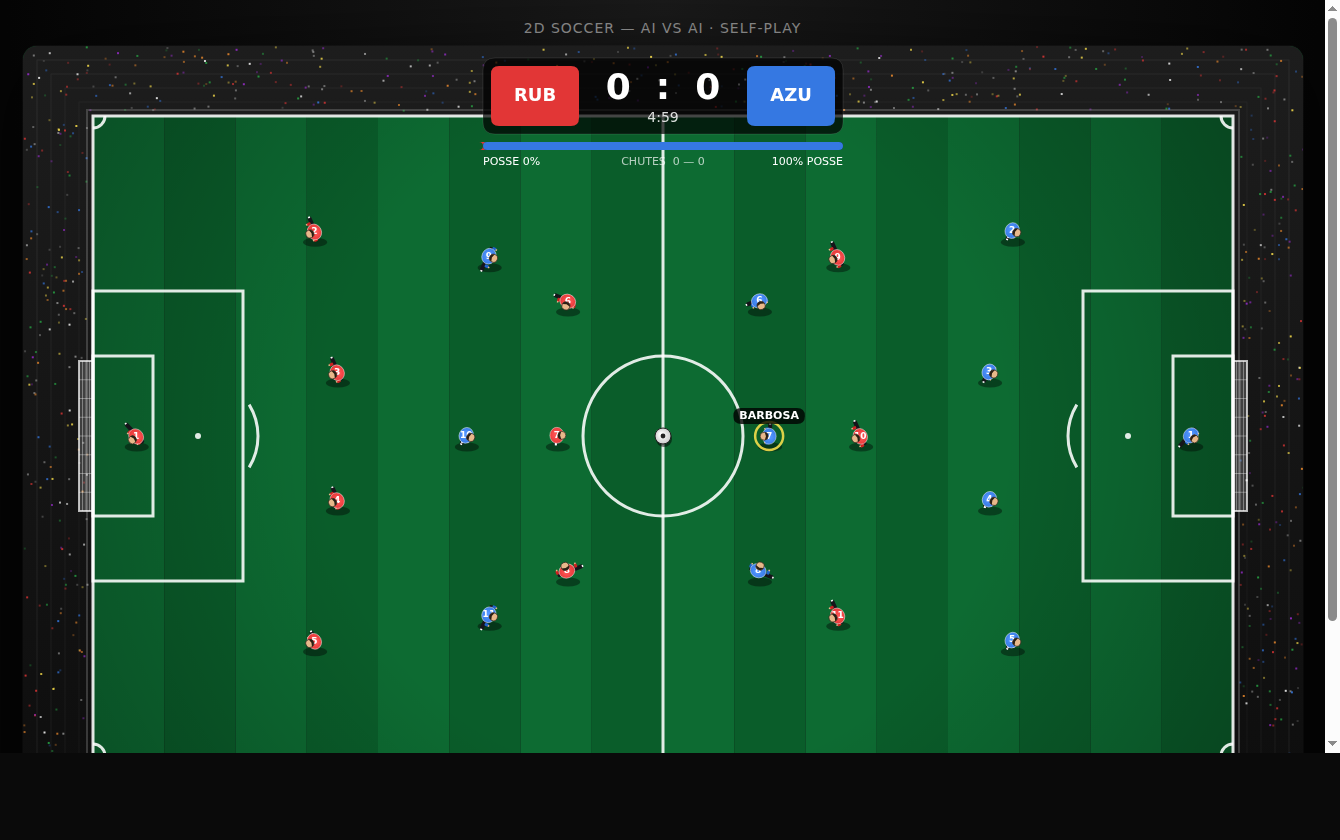
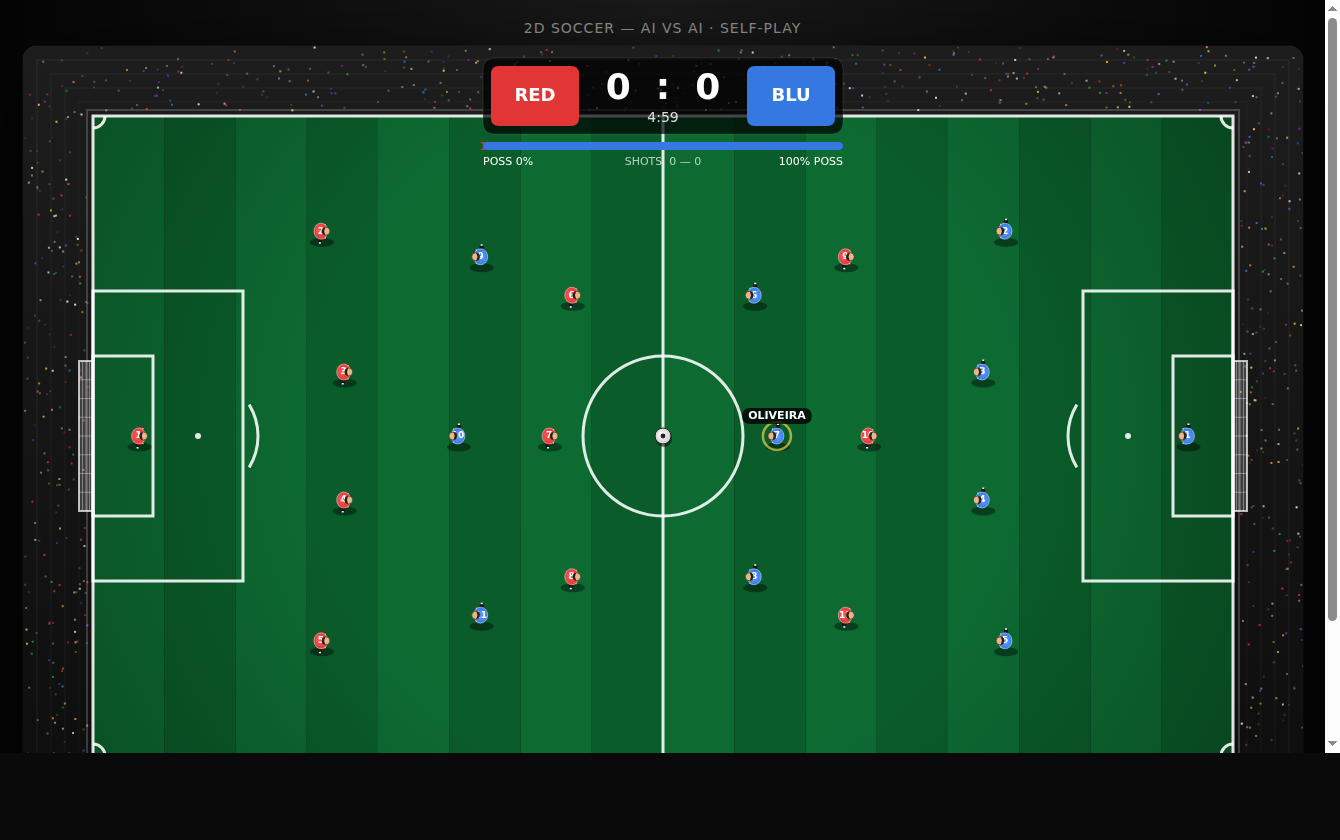
i18n: bilingual EN / pt-br with browser-language autodetect
All visible strings now live in a LANG_DICT (en + pt) near the top of
the script. detectLang() reads navigator.language and falls back to
English for any non-pt locale. ?lang=en or ?lang=pt in the URL
overrides.

Translated:
- HTML: title, h1, controls legend, audio-credit
- HUD: scoreboard team labels (RED/BLU vs RUB/AZU), POSS/POSSE, SHOTS/CHUTES
- States: PAUSED/PAUSADO, FULL TIME/FIM DE JOGO
- Toasts: GOOOAL/GOOOL, SHOT/CHUTOU, LONG BALL/LANÇAMENTO, REPLAY hints
- Replay overlay: SLOW MOTION / CÂMERA LENTA

HTML defaults are now English so non-pt users don't see a flash of
Portuguese before the script swaps in their detected locale.

Updated CLAUDE.md and AGENTS.md to reflect the new convention (was
saying "Portuguese is intentional flavor, don't translate" — that
guidance is no longer accurate).

Verified clean with the Playwright inspector for both ?lang=en and
?lang=pt: 0 console errors, 0 page errors, 0 request failures.

diff --git a/index.html b/index.html
@@ -1,5 +1,5 @@
 <!DOCTYPE html>
-<html lang="pt-br">
+<html lang="en">
 <head>
 <meta charset="utf-8">
 <title>Soccer 2D — AI vs AI</title>
@@ -18,11 +18,67 @@
 <body>
 <h1>2D Soccer — AI vs AI · self-play</h1>
 <canvas id="c" width="1280" height="780"></canvas>
-<div class="legend"><kbd>espaço</kbd> pausa · <kbd>R</kbd> reinicia · <kbd>+</kbd>/<kbd>-</kbd> velocidade · <kbd>M</kbd> mute · <kbd>P</kbd> replay manual</div>
-<div class="credit">click ou tecle uma vez para ativar o áudio</div>
+<div class="legend"><kbd>space</kbd> pause · <kbd>R</kbd> restart · <kbd>+</kbd>/<kbd>-</kbd> speed · <kbd>M</kbd> mute · <kbd>P</kbd> manual replay</div>
+<div class="credit">click or press a key once to enable audio</div>
 
 <script>
 "use strict";
+
+// === i18n ===
+// Auto-detects browser locale; ?lang=en or ?lang=pt overrides.
+const LANG_DICT = {
+  en: {
+    docTitle: 'Soccer 2D — AI vs AI',
+    h1: '2D Soccer — AI vs AI · self-play',
+    legend: '<kbd>space</kbd> pause · <kbd>R</kbd> restart · <kbd>+</kbd>/<kbd>-</kbd> speed · <kbd>M</kbd> mute · <kbd>P</kbd> manual replay',
+    credit: 'click or press a key once to enable audio',
+    teamA_name: 'REDS',  teamA_short: 'RED',
+    teamB_name: 'BLUES', teamB_short: 'BLU',
+    goal: (name) => `GOOOAL — ${name}!`,
+    shotToast: 'SHOT!',
+    longBall:  'LONG BALL!',
+    replayLabel:   'REPLAY · space to skip',
+    replayOverlay: 'REPLAY · SLOW MOTION',
+    paused:   'PAUSED',
+    fulltime: 'FULL TIME',
+    possLeft:  (pct) => `POSS ${pct}%`,
+    possRight: (pct) => `${pct}% POSS`,
+    shots:     (a, b) => `SHOTS  ${a} — ${b}`,
+  },
+  pt: {
+    docTitle: 'Soccer 2D — IA vs IA',
+    h1: '2D Soccer — IA vs IA · self-play',
+    legend: '<kbd>espaço</kbd> pausa · <kbd>R</kbd> reinicia · <kbd>+</kbd>/<kbd>-</kbd> velocidade · <kbd>M</kbd> mute · <kbd>P</kbd> replay manual',
+    credit: 'clique ou tecle uma vez para ativar o áudio',
+    teamA_name: 'RUBRO', teamA_short: 'RUB',
+    teamB_name: 'AZUL',  teamB_short: 'AZU',
+    goal: (name) => `GOOOL — ${name}!`,
+    shotToast: 'CHUTOU!',
+    longBall:  'LANÇAMENTO!',
+    replayLabel:   'REPLAY · espaço pula',
+    replayOverlay: 'REPLAY · CÂMERA LENTA',
+    paused:   'PAUSADO',
+    fulltime: 'FIM DE JOGO',
+    possLeft:  (pct) => `POSSE ${pct}%`,
+    possRight: (pct) => `${pct}% POSSE`,
+    shots:     (a, b) => `CHUTES  ${a} — ${b}`,
+  },
+};
+function detectLang() {
+  const q = new URLSearchParams(location.search).get('lang');
+  if (q === 'pt' || q === 'en') return q;
+  const nav = (navigator.language || navigator.userLanguage || 'en').toLowerCase();
+  return nav.startsWith('pt') ? 'pt' : 'en';
+}
+const LANG = detectLang();
+const T = LANG_DICT[LANG];
+
+// apply HTML-side strings
+document.title = T.docTitle;
+document.documentElement.lang = LANG;
+const _h1 = document.querySelector('h1'); if (_h1) _h1.textContent = T.h1;
+const _lg = document.querySelector('.legend'); if (_lg) _lg.innerHTML = T.legend;
+const _cr = document.querySelector('.credit'); if (_cr) _cr.textContent = T.credit;
 
 const cv = document.getElementById('c');
 const ctx = cv.getContext('2d');
@@ -37,8 +93,8 @@ const GOAL_BOT = H/2 + GOAL_H/2;
 const GOAL_X_L = FIELD.x;
 const GOAL_X_R = FIELD.x + FIELD.w;
 
-const TEAM_A = { id:'A', name:'RUBRO', short:'RUB', color:'#e23636', dark:'#7a1414', dir: 1 };
-const TEAM_B = { id:'B', name:'AZUL',  short:'AZU', color:'#3578e2', dark:'#163e7a', dir:-1 };
+const TEAM_A = { id:'A', name: T.teamA_name, short: T.teamA_short, color:'#e23636', dark:'#7a1414', dir: 1 };
+const TEAM_B = { id:'B', name: T.teamB_name, short: T.teamB_short, color:'#3578e2', dark:'#163e7a', dir:-1 };
 
 const FORMATION = [
   ['GK',  0.04, 0.50],
@@ -290,7 +346,7 @@ function decideKick(p) {
       kickBall(p, goalX, targetY, 16, true);
       if (p.team === TEAM_A) shotsA++; else shotsB++;
       sfx('shot');
-      if (Math.random() < 0.35) showToast('CHUTOU!', p.team.color, 0.9);
+      if (Math.random() < 0.35) showToast(T.shotToast, p.team.color, 0.9);
       return;
     }
   }
@@ -312,7 +368,7 @@ function decideKick(p) {
     const power = clamp(d / 28 + 2, 6, 13);
     kickBall(p, best.x + best.vx * 4, best.y + best.vy * 4, power, false);
     sfx('kick');
-    if (d > 280 && Math.random() < 0.3) showToast('LANÇAMENTO!', p.team.color, 0.9);
+    if (d > 280 && Math.random() < 0.3) showToast(T.longBall, p.team.color, 0.9);
     return;
   }
 
@@ -492,7 +548,7 @@ function goalScored(team) {
 
   shakeAdd(20, 0.7);
   spawnConfetti(team === TEAM_A ? FIELD.x + FIELD.w - 60 : FIELD.x + 60, H/2, team.color);
-  showToast(`GOOOL — ${team.name}!`, team.color, 2.4);
+  showToast(T.goal(team.name), team.color, 2.4);
   sfx('cheer');
   celebrating = { team, t: 1.2, replayQueued: true };
 }
@@ -559,7 +615,7 @@ function startReplay() {
     players: f.players.map(p => ({ ...p })),
   }));
   replay = { frames, idx: 0, slowFactor: 0.45 };
-  showToast('REPLAY · espaço pula', '#ffe44d', 2.2);
+  showToast(T.replayLabel, '#ffe44d', 2.2);
   return true;
 }
 
@@ -927,13 +983,13 @@ function drawStatsBar() {
   ctx.font = '11px system-ui';
   ctx.fillStyle = '#fff';
   ctx.textAlign = 'left'; ctx.textBaseline = 'middle';
-  ctx.fillText(`POSSE ${(ratioA*100).toFixed(0)}%`, bx, by + bh + 12);
+  ctx.fillText(T.possLeft((ratioA*100).toFixed(0)), bx, by + bh + 12);
   ctx.textAlign = 'right';
-  ctx.fillText(`${((1-ratioA)*100).toFixed(0)}% POSSE`, bx + bw, by + bh + 12);
+  ctx.fillText(T.possRight(((1-ratioA)*100).toFixed(0)), bx + bw, by + bh + 12);
 
   ctx.textAlign = 'center';
   ctx.fillStyle = 'rgba(255,255,255,0.7)';
-  ctx.fillText(`CHUTES  ${shotsA} — ${shotsB}`, W/2, by + bh + 12);
+  ctx.fillText(T.shots(shotsA, shotsB), W/2, by + bh + 12);
 }
 
 function drawToast() {
@@ -971,7 +1027,7 @@ function drawReplayOverlay() {
   ctx.font = 'bold 14px system-ui';
   ctx.fillStyle = '#fff';
   ctx.textAlign = 'left'; ctx.textBaseline = 'middle';
-  ctx.fillText('REPLAY · SLOW MOTION', 56, H - 36);
+  ctx.fillText(T.replayOverlay, 56, H - 36);
 }
 
 function roundRect(x, y, w, h, r) {
@@ -1056,7 +1112,7 @@ function drawPaused() {
   ctx.fillStyle = '#fff';
   ctx.font = 'bold 64px system-ui';
   ctx.textAlign = 'center'; ctx.textBaseline = 'middle';
-  ctx.fillText(timeLeft <= 0 ? 'FIM DE JOGO' : 'PAUSADO', W/2, H/2);
+  ctx.fillText(timeLeft <= 0 ? T.fulltime : T.paused, W/2, H/2);
 }
 
 // === Loop ===

diff --git a/CLAUDE.md b/CLAUDE.md
@@ -132,9 +132,12 @@ freeze.
 
 ## Conventions
 
-- **Portuguese in-game text** (`GOOOL`, `LANÇAMENTO`, `RUBRO`, `AZUL`,
-  `PAUSADO`) is intentional flavor. Don't translate to English unless the
-  user asks. README, comments, commit messages stay in English.
+- **i18n**: in-game text is bilingual (en / pt-br). Auto-detected from
+  `navigator.language`; `?lang=en` or `?lang=pt` overrides. All visible
+  strings live in `LANG_DICT` near the top of the script — add new
+  strings there and reference via `T.key` (or `T.fn(arg)` for templates).
+  Keep English the default fallback for non-pt locales.
+- Source code, comments, commit messages, README → English.
 - **No emojis in code or files** unless the user explicitly asks.
 - **Commits** must include `Co-Authored-By: Claude Opus 4.7 (1M context) <noreply@anthropic.com>`
   on the last line, set `git -c user.email=cfpperche@gmail.com -c user.name=cfpperche`.

diff --git a/AGENTS.md b/AGENTS.md
@@ -123,9 +123,12 @@ freeze.
 
 ## Conventions
 
-- **Portuguese in-game text** (`GOOOL`, `LANÇAMENTO`, `CHUTOU`, `RUBRO`,
-  `AZUL`, `PAUSADO`) is deliberate flavor. Don't translate without being
-  asked. README, code comments, and commit messages stay in English.
+- **i18n**: in-game text is bilingual (en / pt-br). Auto-detected from
+  `navigator.language`; `?lang=en` or `?lang=pt` overrides. All visible
+  strings live in `LANG_DICT` near the top of the script — add new
+  strings there and reference via `T.key` (or `T.fn(arg)` for templates).
+  Keep English as the default fallback for non-pt locales.
+- Source code, comments, commit messages, README → English.
 - **No emojis** in code or files unless the user asks.
 - **Commits** include `Co-Authored-By: Claude Opus 4.7 (1M context) <noreply@anthropic.com>`
   on the last line. Use the project email/name:

diff --git a/README.md b/README.md
@@ -97,7 +97,7 @@ PRs welcome.
 
 Built iteratively in Claude Code following the spirit of the original tweet: keep tweaking until it's actually fun to watch. The first version was 4v4, human-controlled, and visually raw. The current one is pure AI, 11v11, with layers of polish (replay, audio, particles, broadcast HUD) discovered after each match that felt too lifeless to be worth watching.
 
-The in-game text is intentionally kept in Portuguese (`GOOOL`, `LANÇAMENTO`, `RUBRO`/`AZUL`) — partly for flavor, partly because that's how it was built.
+The UI is bilingual (English / pt-br) and auto-selects based on `navigator.language`. Force a specific language with `?lang=en` or `?lang=pt` in the URL.
 
 ## License
 
